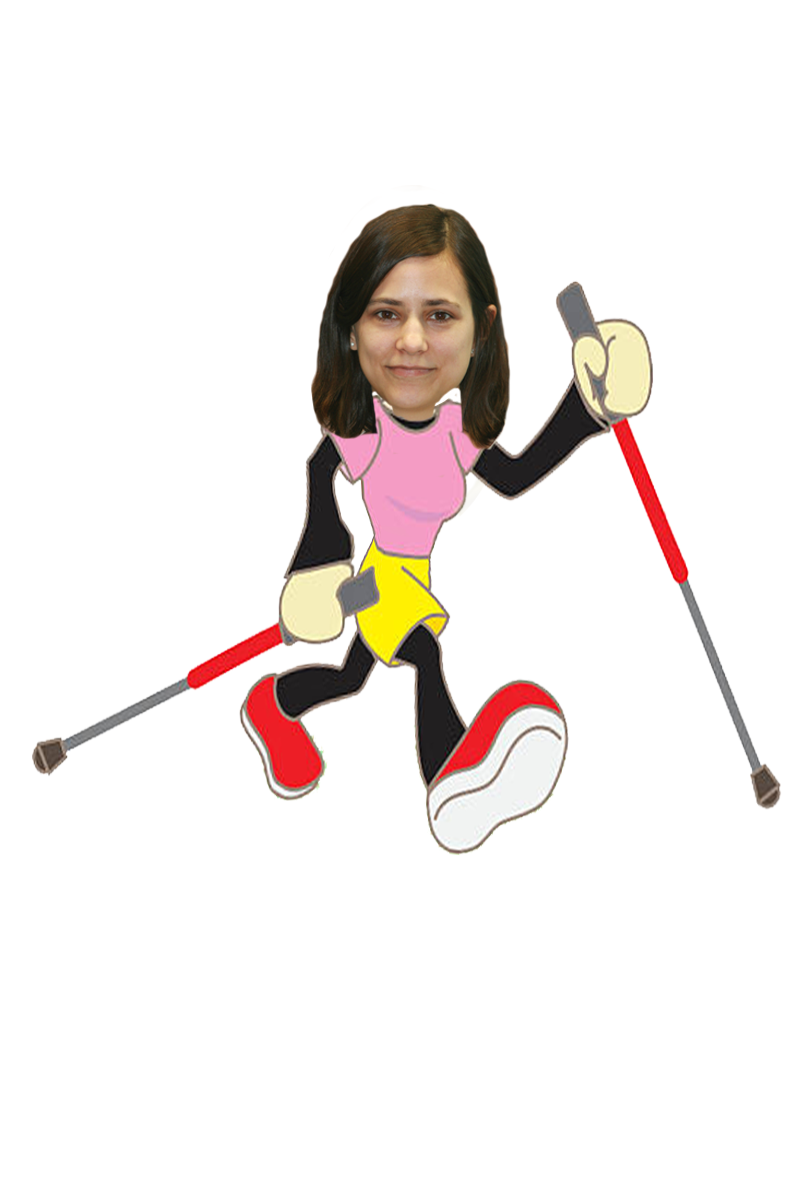
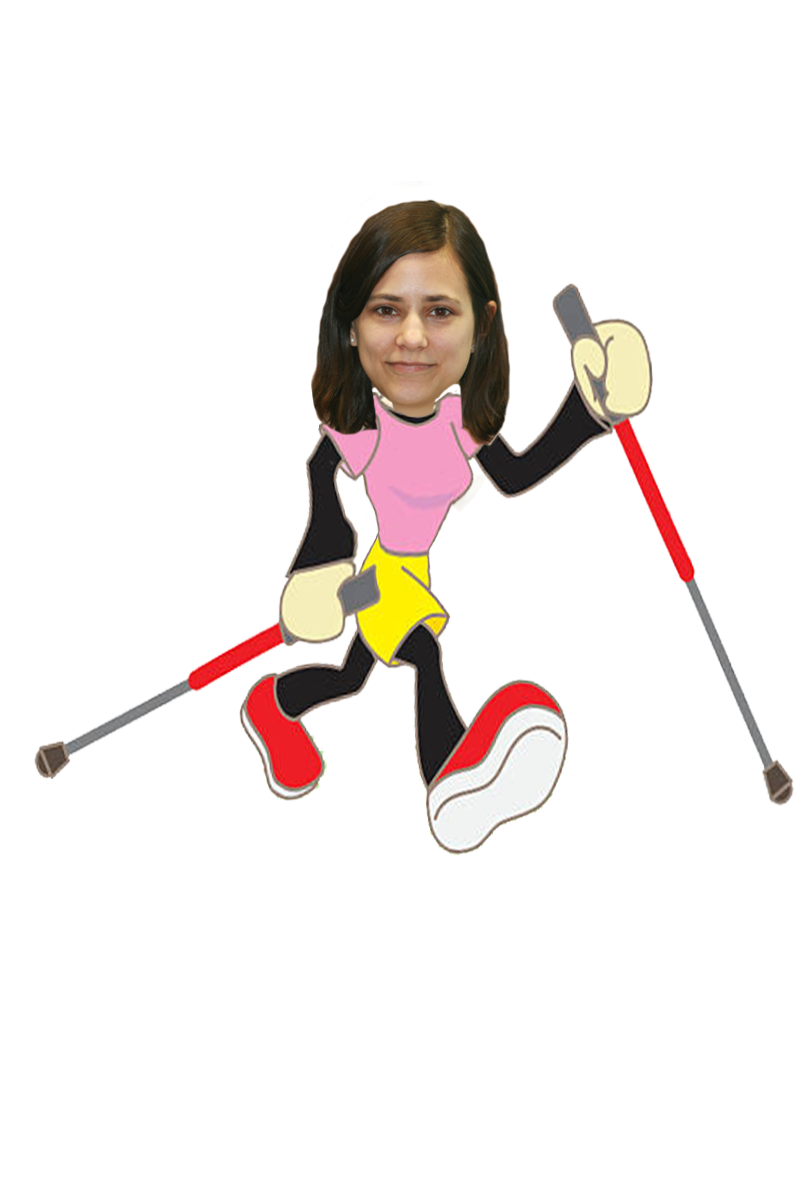
Add Thomas

diff --git a/src/main/webapp/js/canvas.js b/src/main/webapp/js/canvas.js
@@ -85,7 +85,7 @@ AugmentedCanvas.prototype.showWinScreen = function(playerName) {
   this.ctx.textBaseline = "middle";
   this.ctx.fillStyle = "#000000";
   this.ctx.fillText(playerName, this.width / 2, this.height / 2 - 35);
-  this.ctx.fillText("håt a neichs iPad!", this.width / 2,this.height / 2 + 35);
+  this.ctx.fillText("hat ein neues iPad!", this.width / 2,this.height / 2 + 35);
 
 };
 

diff --git a/src/main/webapp/js/game.js b/src/main/webapp/js/game.js
@@ -32,7 +32,8 @@ var pictureData = [
   ["klemens.png", 856 + 35, 0.2, 0.55],
   ["boyang.png", 856 + 97, 0.22, 0.75],
   ["erich.png", 884 + 102, 0.18],
-  ["christoph.png", 958 + 57, 0.15, 0.7]
+  ["christoph.png", 958 + 57, 0.15, 0.7],
+  ["thomas.png", 1024 + 6, 0.15, 0.7],
 ];
 
 /*
